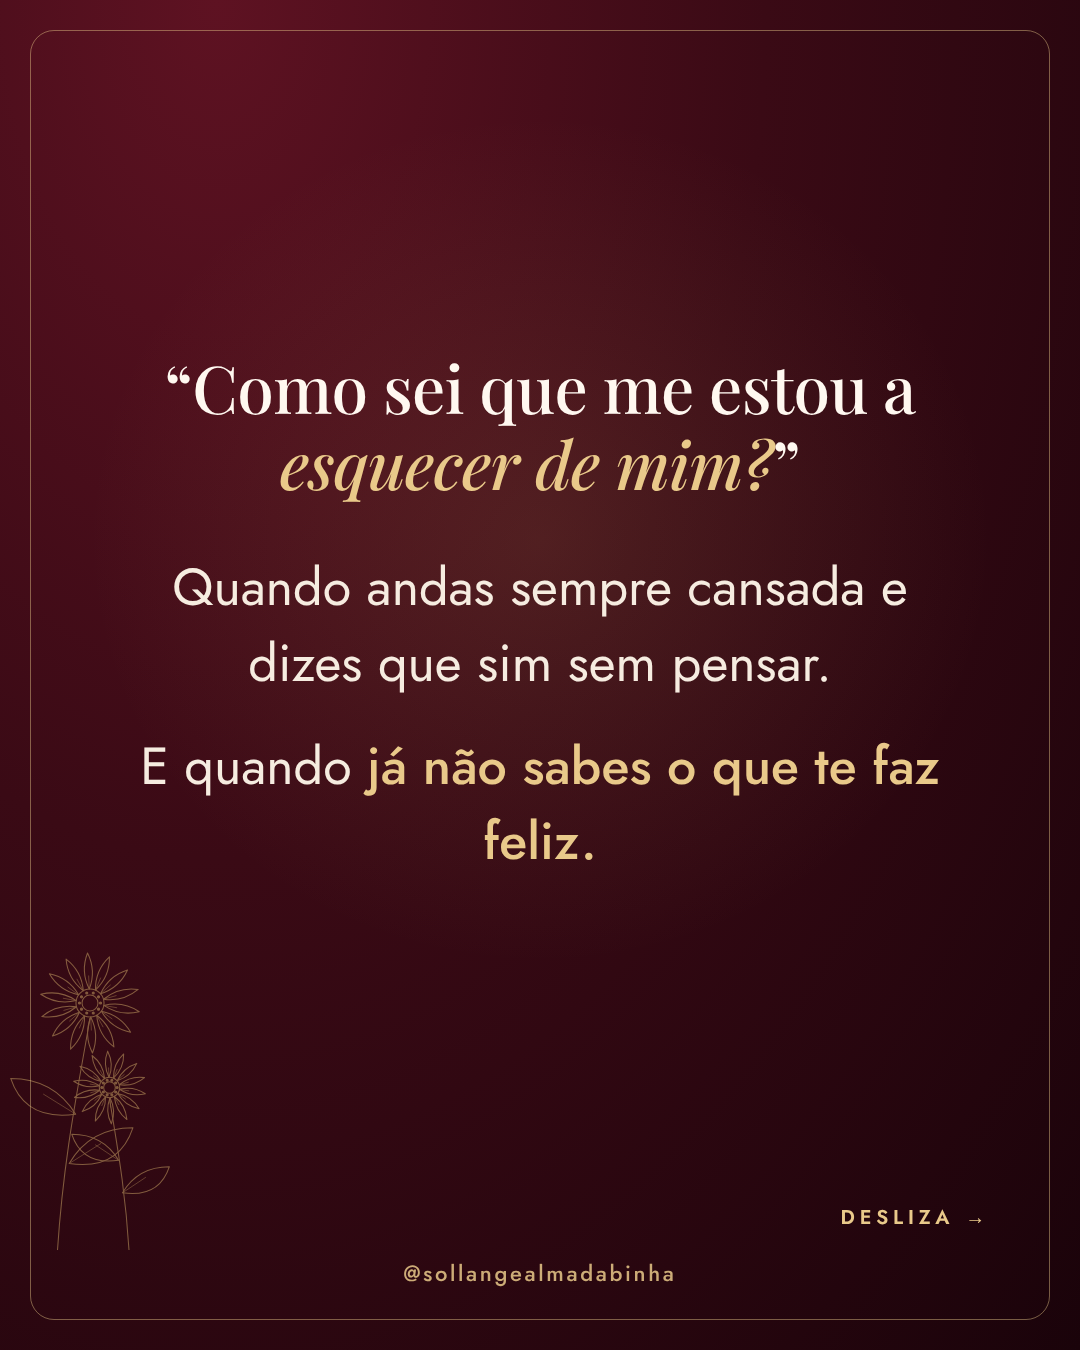
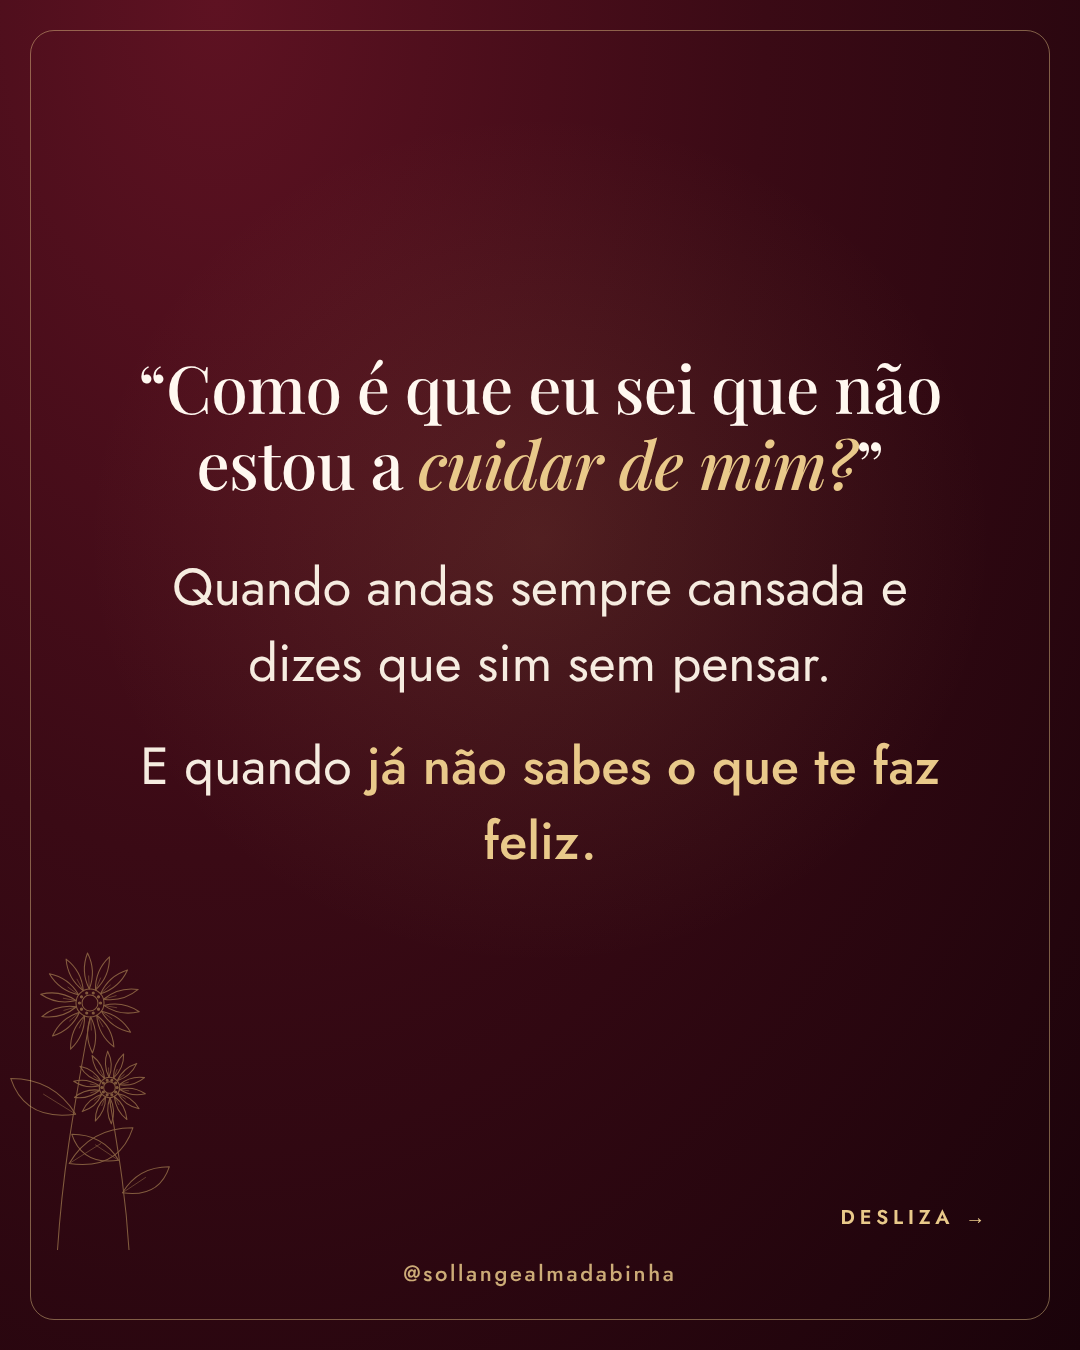
Egoismo carousel: slide 4 question changed by client
Claude-Session: https://claude.ai/code/session_01LHQJ2mQGDsvNSWxv53LoAn

Changed region(s): [[0.1528, 0.2489, 0.8861, 0.3733]]

diff --git a/carrossel/carrossel-egoismo-vinho.html b/carrossel/carrossel-egoismo-vinho.html
@@ -45,7 +45,7 @@ h1 em,h2 em{font-style:italic;color:#E9C98A}
 <p class="seta">Desliza →</p><div class="rod"><span>@sollangealmadabinha</span></div></section><section class="s" id="p4">
 <svg class="flor" style="left:-40px;bottom:100px;width:260px;height:390px" viewBox="0 0 400 600" fill="none" stroke="#D4AF6A" stroke-width="1.6" stroke-linejoin="round"><path d="M150 600 C160.0 448.0 185.0 334.0 200 243.1"/><path d="M168 467 Q244 478 266 412 Q200 412 168 467Z"/><path d="M168 467 L217 436" stroke-width="1"/><path d="M178 391 Q100 402 78 336 Q144 336 178 391Z"/><path d="M178 391 L128 360" stroke-width="1"/><path d="M221.2 223.7 Q246.4 240.7 275.8 233.4 Q250.7 216.4 221.2 223.7Z"/><path d="M221.2 223.7 L241.7 227.4" stroke-width="1"/><path d="M217.5 232.6 Q232.8 258.8 262.5 264.9 Q247.2 238.8 217.5 232.6Z"/><path d="M217.5 232.6 L234.4 244.7" stroke-width="1"/><path d="M210.3 238.9 Q212.7 269.2 236.8 287.6 Q234.4 257.4 210.3 238.9Z"/><path d="M210.3 238.9 L220.3 257.2" stroke-width="1"/><path d="M201.1 241.5 Q190.2 269.8 203.8 296.9 Q214.8 268.6 201.1 241.5Z"/><path d="M201.1 241.5 L202.1 262.3" stroke-width="1"/><path d="M191.6 239.9 Q169.5 260.6 170.1 291.0 Q192.2 270.2 191.6 239.9Z"/><path d="M191.6 239.9 L183.5 259.0" stroke-width="1"/><path d="M183.8 234.3 Q154.9 243.4 142.3 270.9 Q171.2 261.8 183.8 234.3Z"/><path d="M183.8 234.3 L168.2 248.0" stroke-width="1"/><path d="M179.2 225.8 Q149.2 221.5 125.9 240.9 Q155.9 245.2 179.2 225.8Z"/><path d="M179.2 225.8 L159.2 231.5" stroke-width="1"/><path d="M178.8 216.3 Q153.6 199.3 124.2 206.6 Q149.3 223.6 178.8 216.3Z"/><path d="M178.8 216.3 L158.3 212.6" stroke-width="1"/><path d="M182.5 207.4 Q167.2 181.2 137.5 175.1 Q152.8 201.2 182.5 207.4Z"/><path d="M182.5 207.4 L165.6 195.3" stroke-width="1"/><path d="M189.7 201.1 Q187.3 170.8 163.2 152.4 Q165.6 182.6 189.7 201.1Z"/><path d="M189.7 201.1 L179.7 182.8" stroke-width="1"/><path d="M198.9 198.5 Q209.8 170.2 196.2 143.1 Q185.2 171.4 198.9 198.5Z"/><path d="M198.9 198.5 L197.9 177.7" stroke-width="1"/><path d="M208.4 200.1 Q230.5 179.4 229.9 149.0 Q207.8 169.8 208.4 200.1Z"/><path d="M208.4 200.1 L216.5 181.0" stroke-width="1"/><path d="M216.2 205.7 Q245.1 196.6 257.7 169.1 Q228.8 178.2 216.2 205.7Z"/><path d="M216.2 205.7 L231.8 192.0" stroke-width="1"/><path d="M220.8 214.2 Q250.8 218.5 274.1 199.1 Q244.1 194.8 220.8 214.2Z"/><path d="M220.8 214.2 L240.8 208.5" stroke-width="1"/><circle cx="200" cy="220" r="21.6"/><circle cx="200" cy="220" r="12.3"/><circle cx="216.2" cy="220.0" r="1.6" fill="#D4AF6A"/><circle cx="213.1" cy="229.5" r="1.6" fill="#D4AF6A"/><circle cx="205.0" cy="235.4" r="1.6" fill="#D4AF6A"/><circle cx="195.0" cy="235.4" r="1.6" fill="#D4AF6A"/><circle cx="186.9" cy="229.5" r="1.6" fill="#D4AF6A"/><circle cx="183.8" cy="220.0" r="1.6" fill="#D4AF6A"/><circle cx="186.9" cy="210.5" r="1.6" fill="#D4AF6A"/><circle cx="195.0" cy="204.6" r="1.6" fill="#D4AF6A"/><circle cx="205.0" cy="204.6" r="1.6" fill="#D4AF6A"/><circle cx="213.1" cy="210.5" r="1.6" fill="#D4AF6A"/><path d="M260 600 C254.0 500.0 239.0 425.0 230 366.8"/><path d="M250 512 Q306 520 322 472 Q274 472 250 512Z"/><path d="M250 512 L286 488" stroke-width="1"/><path d="M244 462 Q188 470 172 422 Q220 422 244 462Z"/><path d="M244 462 L208 438" stroke-width="1"/><path d="M245.4 352.7 Q263.7 365.0 285.1 359.7 Q266.9 347.4 245.4 352.7Z"/><path d="M245.4 352.7 L260.3 355.3" stroke-width="1"/><path d="M242.7 359.2 Q253.9 378.2 275.5 382.7 Q264.3 363.6 242.7 359.2Z"/><path d="M242.7 359.2 L255.0 368.0" stroke-width="1"/><path d="M237.5 363.8 Q239.3 385.8 256.8 399.2 Q255.0 377.2 237.5 363.8Z"/><path d="M237.5 363.8 L244.7 377.0" stroke-width="1"/><path d="M230.8 365.7 Q222.8 386.2 232.8 405.9 Q240.7 385.3 230.8 365.7Z"/><path d="M230.8 365.7 L231.5 380.8" stroke-width="1"/><path d="M223.9 364.4 Q207.8 379.5 208.2 401.6 Q224.3 386.5 223.9 364.4Z"/><path d="M223.9 364.4 L218.0 378.4" stroke-width="1"/><path d="M218.2 360.4 Q197.2 367.0 188.0 387.1 Q209.1 380.4 218.2 360.4Z"/><path d="M218.2 360.4 L206.9 370.4" stroke-width="1"/><path d="M214.9 354.2 Q193.1 351.1 176.1 365.2 Q197.9 368.3 214.9 354.2Z"/><path d="M214.9 354.2 L200.4 358.3" stroke-width="1"/><path d="M214.6 347.3 Q196.3 335.0 174.9 340.3 Q193.1 352.6 214.6 347.3Z"/><path d="M214.6 347.3 L199.7 344.7" stroke-width="1"/><path d="M217.3 340.8 Q206.1 321.8 184.5 317.3 Q195.7 336.4 217.3 340.8Z"/><path d="M217.3 340.8 L205.0 332.0" stroke-width="1"/><path d="M222.5 336.2 Q220.7 314.2 203.2 300.8 Q205.0 322.8 222.5 336.2Z"/><path d="M222.5 336.2 L215.3 323.0" stroke-width="1"/><path d="M229.2 334.3 Q237.2 313.8 227.2 294.1 Q219.3 314.7 229.2 334.3Z"/><path d="M229.2 334.3 L228.5 319.2" stroke-width="1"/><path d="M236.1 335.6 Q252.2 320.5 251.8 298.4 Q235.7 313.5 236.1 335.6Z"/><path d="M236.1 335.6 L242.0 321.6" stroke-width="1"/><path d="M241.8 339.6 Q262.8 333.0 272.0 312.9 Q250.9 319.6 241.8 339.6Z"/><path d="M241.8 339.6 L253.1 329.6" stroke-width="1"/><path d="M245.1 345.8 Q266.9 348.9 283.9 334.8 Q262.1 331.7 245.1 345.8Z"/><path d="M245.1 345.8 L259.6 341.7" stroke-width="1"/><circle cx="230" cy="350" r="15.7"/><circle cx="230" cy="350" r="9.0"/><circle cx="241.8" cy="350.0" r="1.6" fill="#D4AF6A"/><circle cx="239.5" cy="356.9" r="1.6" fill="#D4AF6A"/><circle cx="233.6" cy="361.2" r="1.6" fill="#D4AF6A"/><circle cx="226.4" cy="361.2" r="1.6" fill="#D4AF6A"/><circle cx="220.5" cy="356.9" r="1.6" fill="#D4AF6A"/><circle cx="218.2" cy="350.0" r="1.6" fill="#D4AF6A"/><circle cx="220.5" cy="343.1" r="1.6" fill="#D4AF6A"/><circle cx="226.4" cy="338.8" r="1.6" fill="#D4AF6A"/><circle cx="233.6" cy="338.8" r="1.6" fill="#D4AF6A"/><circle cx="239.5" cy="343.1" r="1.6" fill="#D4AF6A"/></svg>
 <div class="z" style="position:absolute;left:110px;right:110px;top:0;bottom:120px;display:flex;flex-direction:column;justify-content:center;text-align:center">
-<p class="q">“Como sei que me estou a <em style="color:#E9C98A">esquecer de mim?</em>”</p>
+<p class="q">“Como é que eu sei que não estou a <em style="color:#E9C98A">cuidar de mim?</em>”</p>
 <p class="r" style="margin-top:48px">Quando andas sempre cansada e dizes que sim sem pensar.</p>
 <p class="r" style="margin-top:28px">E quando <b>já não sabes o que te faz feliz.</b></p>
 </div>
